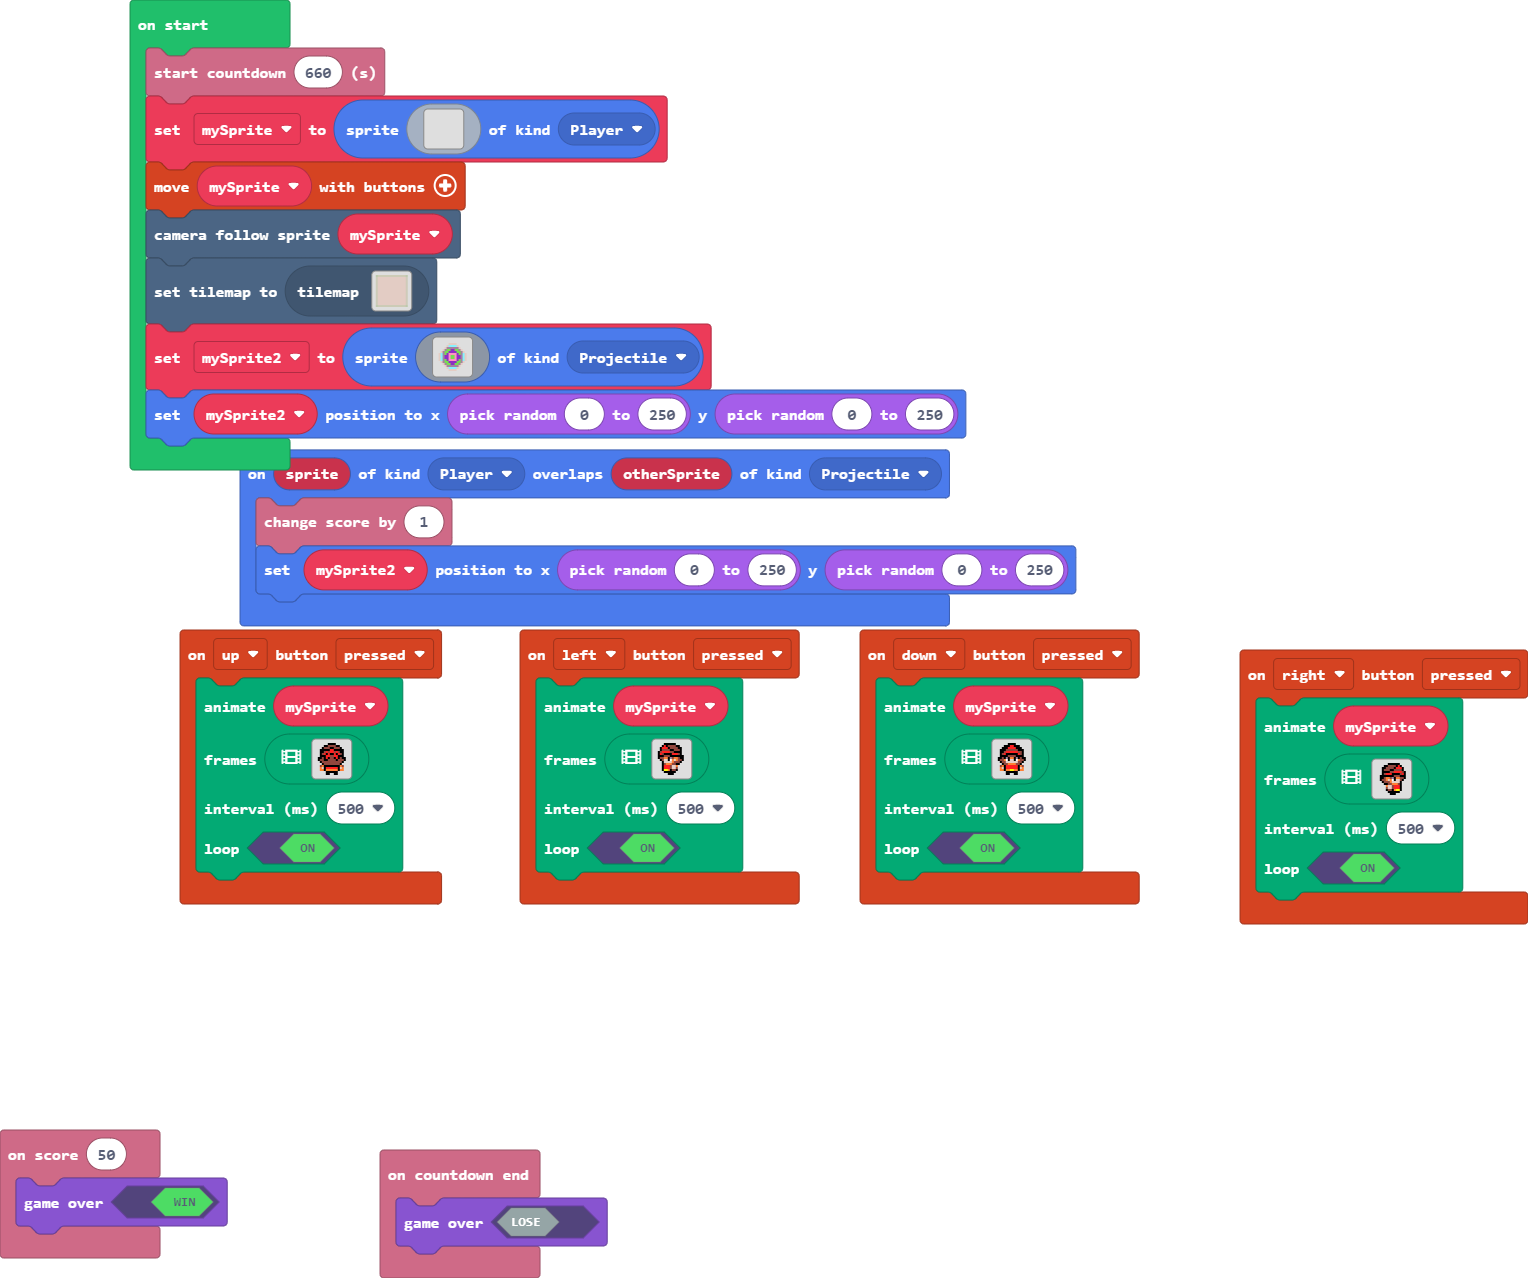
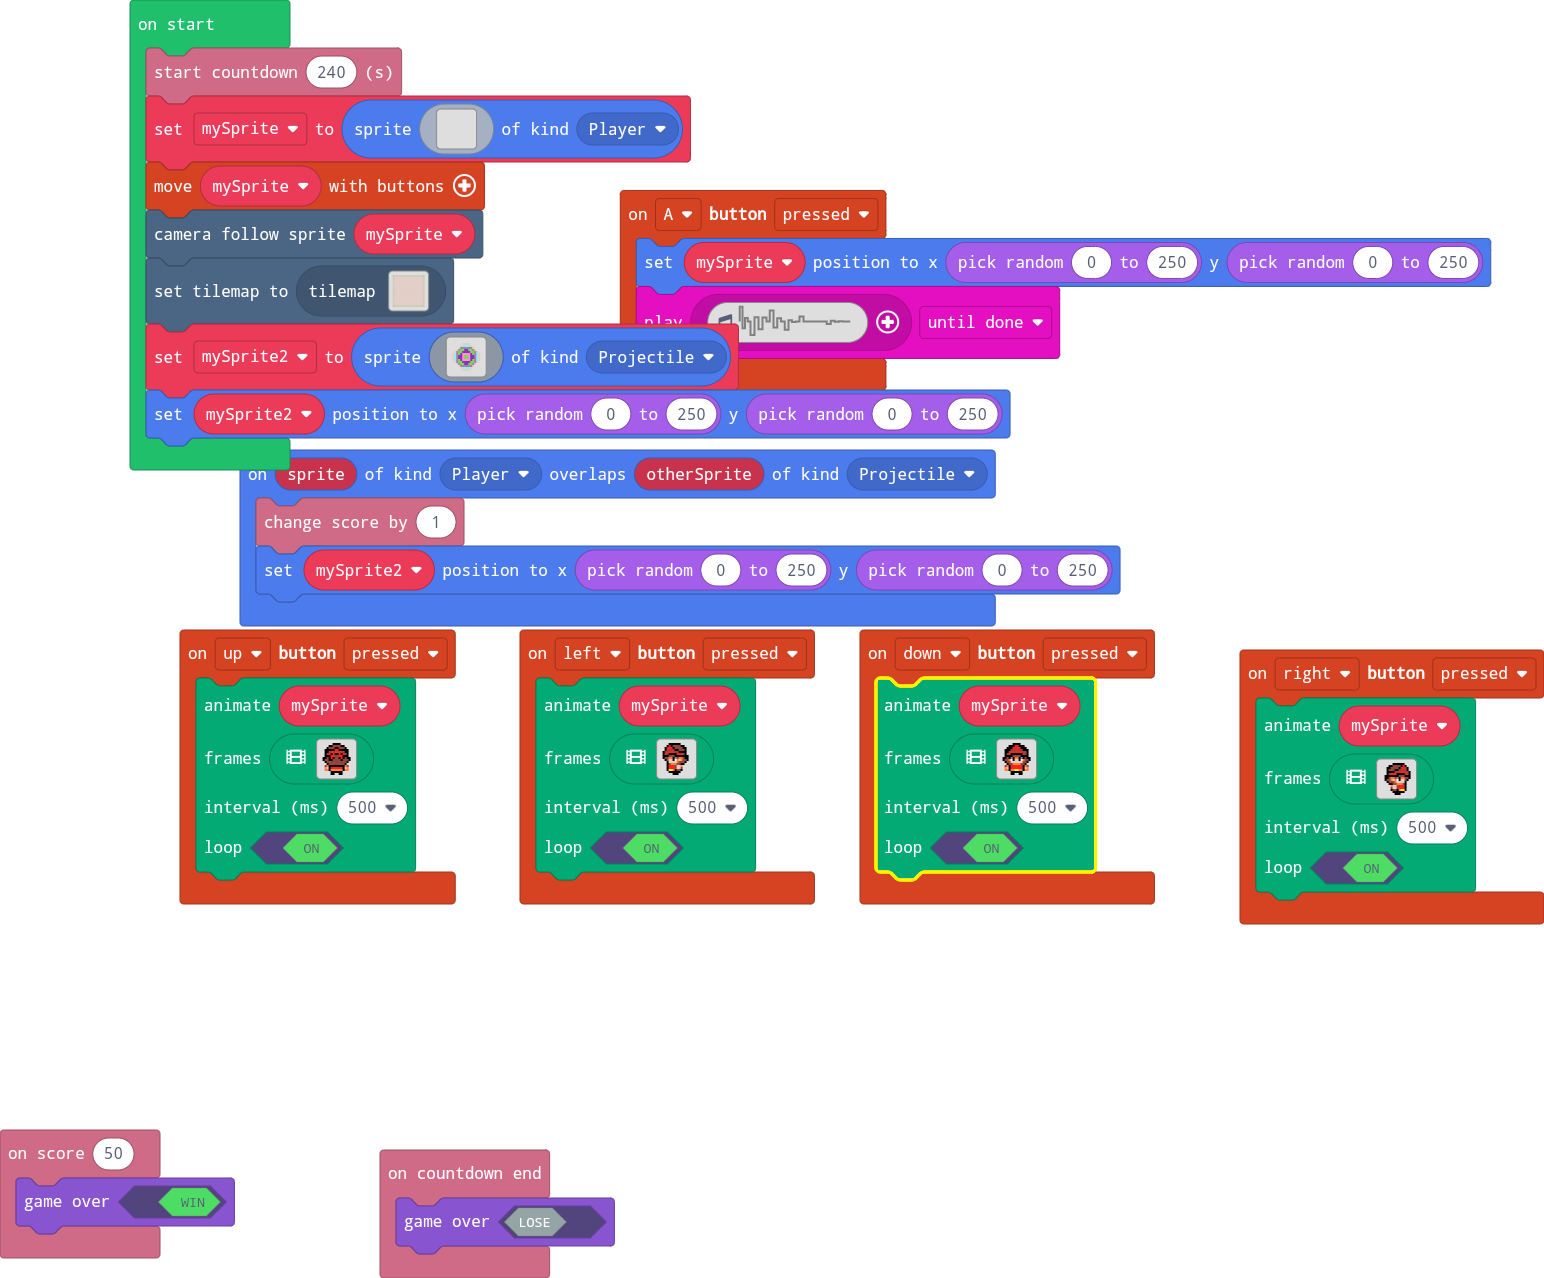
Update main.blocks, main.ts, tilemap.g.jres, tilemap.g.ts

diff --git a/tilemap.g.ts b/tilemap.g.ts
@@ -24,25 +24,6 @@ namespace myTiles {
 . . . . . . . . . . . . . . . . 
 . . . . . . . . . . . . . . . . 
 `, [myTiles.transparency16,sprites.castle.tilePath7,sprites.castle.tilePath5,sprites.castle.tilePath8,sprites.castle.tilePath9,sprites.castle.tilePath1,sprites.castle.tilePath3,sprites.castle.tilePath2,sprites.castle.tilePath6,sprites.castle.tilePath4], TileScale.Sixteen);
-            case "level":
-            case "level2":return tiles.createTilemap(hex`1000100001020202020202020202020202020203040909090909090909090909090909080409090909090909090909090909090804090909090909090909090909090908040909090909090909090909090909080409090909090909090909090909090804090909090909090909090909090908040909090909090909090909090909080409090909090909090909090909090804090909090909090909090909090908040909090909090909090909090909080409090909090909090909090909090804090909090909090909090909090908040909090909090909090909090909080409090909090909090909090909090805070707070707070707070707070706`, img`
-. . . . . . . . . . . . . . . . 
-. . . . . . . . . . . . . . . . 
-. . . . . . . . . . . . . . . . 
-. . . . . . . . . . . . . . . . 
-. . . . . . . . . . . . . . . . 
-. . . . . . . . . . . . . . . . 
-. . . . . . . . . . . . . . . . 
-. . . . . . . . . . . . . . . . 
-. . . . . . . . . . . . . . . . 
-. . . . . . . . . . . . . . . . 
-. . . . . . . . . . . . . . . . 
-. . . . . . . . . . . . . . . . 
-. . . . . . . . . . . . . . . . 
-. . . . . . . . . . . . . . . . 
-. . . . . . . . . . . . . . . . 
-. . . . . . . . . . . . . . . . 
-`, [myTiles.transparency16,sprites.castle.tilePath1,sprites.castle.tilePath2,sprites.castle.tilePath3,sprites.castle.tilePath4,sprites.castle.tilePath7,sprites.castle.tilePath9,sprites.castle.tilePath8,sprites.castle.tilePath6,sprites.castle.tilePath5], TileScale.Sixteen);
             case "level3":
             case "level3":return tiles.createTilemap(hex`1000100000000000000000000000000000000000000000000000000000000000000000000000000000000000000000000000000000000000000000000000000000000000000000000000000000000000000000000000000000000000000000000000000000000000000000000000000000000000000000000000000000000000000000000000000000000000000000000000000000000000000000000000000000000000000000000000000000000000000000000000000000000000000000000000000000000000000000000000000000000000000000000000000000000000000000000000000000000000000000000000000000000000000000000000000000000000`, img`
 . . . . . . . . . . . . . . . . 
@@ -62,6 +43,26 @@ namespace myTiles {
 . . . . . . . . . . . . . . . . 
 . . . . . . . . . . . . . . . . 
 `, [myTiles.transparency16], TileScale.Sixteen);
+            case "level":
+            case "level2":return tiles.createTilemap(hex`1100110001020202020202020202020202020202030409090909090909090909090909090908040909090909090909090909090909090804090909090909090909090909090909080409090909090909090909090909090908040909090909090909090909090909090804090909090909090909090909090909080409090909090909090909090909090908040909090909090909090909090909090804090909090909090909090909090909080409090909090909090909090909090908040909090909090909090909090909090804090909090909090909090909090909080409090909090909090909090909090908040909090909090909090909090909090804090909090909090909090909090909080507070707070707070707070707070706`, img`
+. . . . . . . . . . . . . . . . . 
+. . . . . . . . . . . . . . . . . 
+. . . . . . . . . . . . . . . . . 
+. . . . . . . . . . . . . . . . . 
+. . . . . . . . . . . . . . . . . 
+. . . . . . . . . . . . . . . . . 
+. . . . . . . . . . . . . . . . . 
+. . . . . . . . . . . . . . . . . 
+. . . . . . . . . . . . . . . . . 
+. . . . . . . . . . . . . . . . . 
+. . . . . . . . . . . . . . . . . 
+. . . . . . . . . . . . . . . . . 
+. . . . . . . . . . . . . . . . . 
+. . . . . . . . . . . . . . . . . 
+. . . . . . . . . . . . . . . . . 
+. . . . . . . . . . . . . . . . . 
+. . . . . . . . . . . . . . . . . 
+`, [myTiles.transparency16,sprites.castle.tilePath1,sprites.castle.tilePath2,sprites.castle.tilePath3,sprites.castle.tilePath4,sprites.castle.tilePath7,sprites.castle.tilePath9,sprites.castle.tilePath8,sprites.castle.tilePath6,sprites.castle.tilePath5], TileScale.Sixteen);
         }
         return null;
     })

diff --git a/main.ts b/main.ts
@@ -74,6 +74,10 @@ controller.up.onEvent(ControllerButtonEvent.Pressed, function () {
     true
     )
 })
+controller.A.onEvent(ControllerButtonEvent.Pressed, function () {
+    mySprite.setPosition(randint(0, 250), randint(0, 250))
+    music.play(music.createSoundEffect(WaveShape.Noise, 899, 3871, 255, 0, 500, SoundExpressionEffect.None, InterpolationCurve.Linear), music.PlaybackMode.UntilDone)
+})
 controller.left.onEvent(ControllerButtonEvent.Pressed, function () {
     animation.runImageAnimation(
     mySprite,
@@ -314,7 +318,7 @@ info.onScore(50, function () {
 })
 let mySprite2: Sprite = null
 let mySprite: Sprite = null
-info.startCountdown(660)
+info.startCountdown(240)
 mySprite = sprites.create(img`
     . . . . . . . . . . . . . . . . 
     . . . . . . . . . . . . . . . . 
